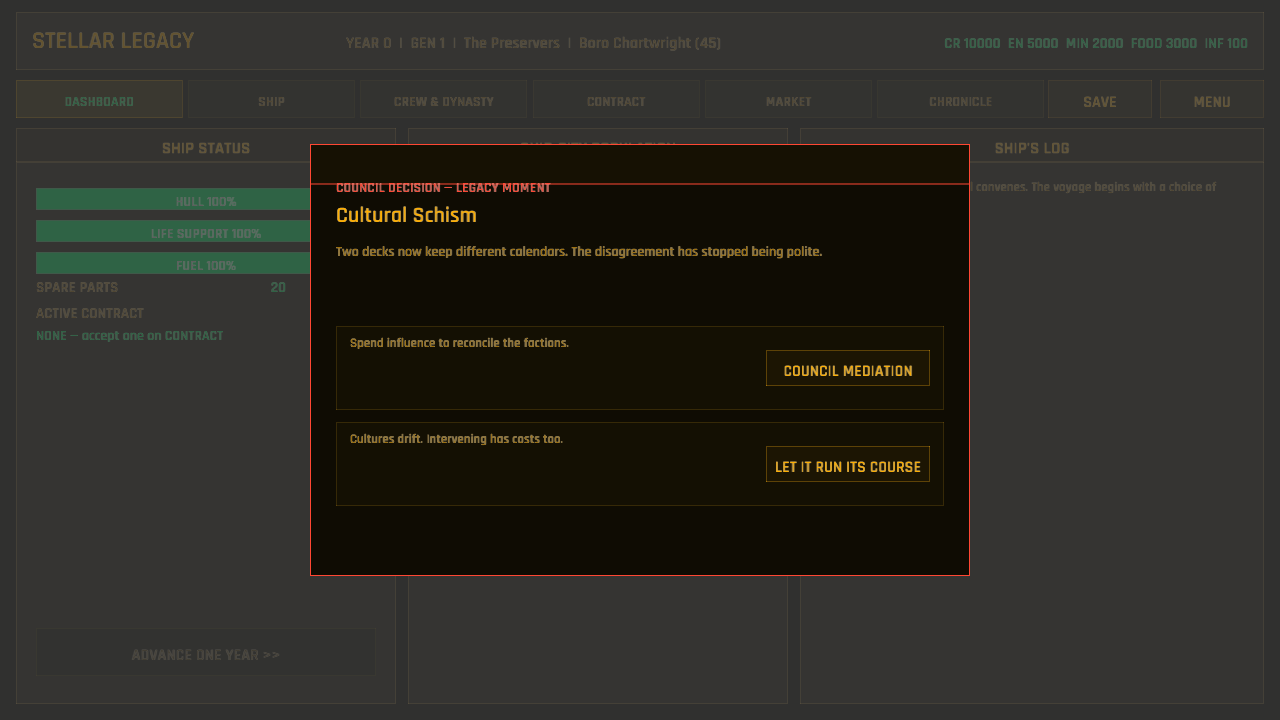
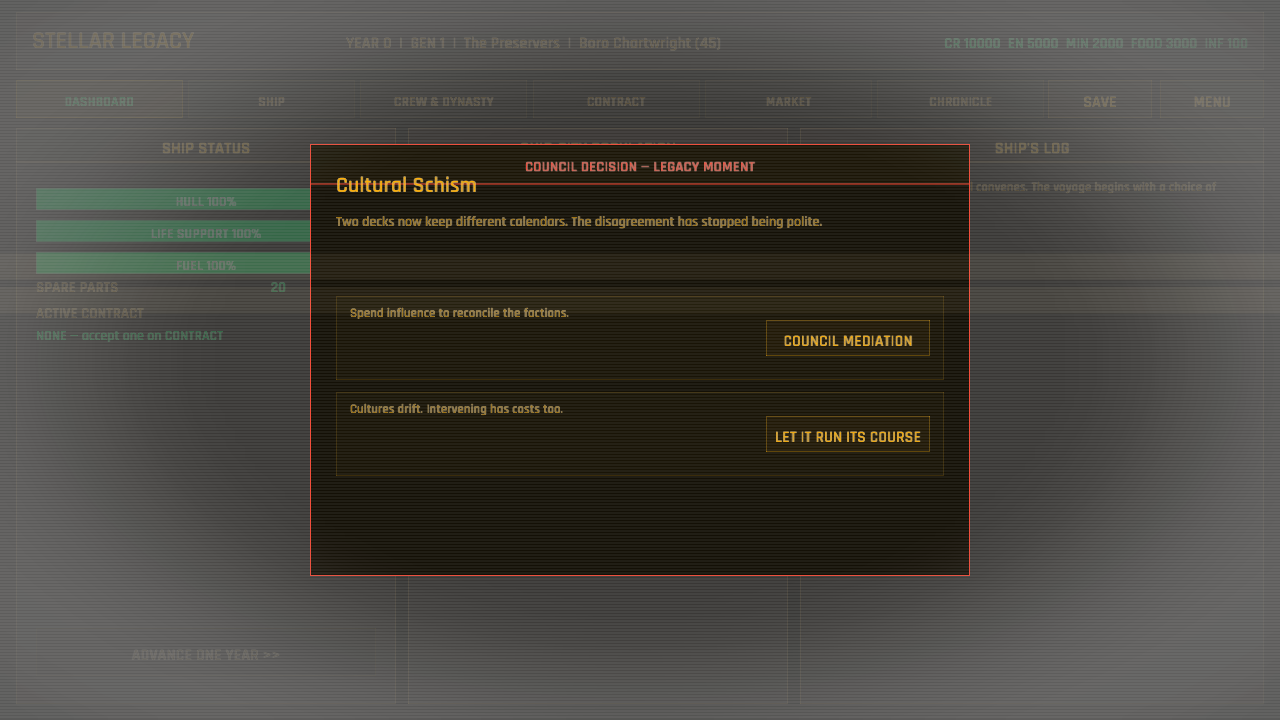
Type out modal text terminal-style; fill modal header band
Stream event/dilemma body text with the toolkit typewriter (55 cps) and
a blinking underscore cursor, driven by a cosmetic reveal clock on Game
(reset per modal, instant in capture so screenshots show final text).
Move the "COUNCIL DECISION / LEGACY DILEMMA" line into the modal's
header band (previously empty) and lead the body with the title.
Updates PLAN item 9 and the header-band nit.

diff --git a/src/ui/event_modal.rs b/src/ui/event_modal.rs
@@ -7,6 +7,9 @@ use macroquad::prelude::*;
 use macroquad_toolkit::prelude::*;
 use macroquad_toolkit::ui::{draw_ui_text_ex, RectExt};
 
+/// Characters-per-second for the terminal reveal of modal body text.
+const REVEAL_CPS: f32 = 55.0;
+
 pub fn draw(ctx: &GameplayCtx<'_>, mouse: Vec2, actions: &mut Vec<UiAction>) {
     let Some(pending) = &ctx.sim.pending_event else {
         return;
@@ -15,18 +18,12 @@ pub fn draw(ctx: &GameplayCtx<'_>, mouse: Vec2, actions: &mut Vec<UiAction>) {
         return;
     };
 
-    let content = modal_frame(template.outcomes.len(), term::RED);
-    let mut y = content.y + 22.0;
-    draw_ui_text_ex(
-        &format!(
-            "COUNCIL DECISION — {}",
-            template.category.label().to_uppercase()
-        ),
-        content.x,
-        y,
-        TextStyle::new(14.0, term::RED).params(),
+    let header = format!(
+        "COUNCIL DECISION — {}",
+        template.category.label().to_uppercase()
     );
-    y += 30.0;
+    let content = modal_frame(&header, template.outcomes.len(), term::RED);
+    let mut y = content.y + 22.0;
     draw_ui_text_ex(
         &template.title,
         content.x,
@@ -34,15 +31,12 @@ pub fn draw(ctx: &GameplayCtx<'_>, mouse: Vec2, actions: &mut Vec<UiAction>) {
         TextStyle::new(22.0, term::AMBER).params(),
     );
     y += 20.0;
-    draw_text_block(
+    draw_typed_block(
         &template.description,
         content.x,
         y,
         content.w,
-        70.0,
-        14.0,
-        4.0,
-        term::AMBER_DIM,
+        ctx.modal_reveal,
     );
     y += 84.0;
 
@@ -88,15 +82,9 @@ pub fn draw_dilemma(ctx: &GameplayCtx<'_>, mouse: Vec2, actions: &mut Vec<UiActi
         .map(|l| l.name.clone())
         .unwrap_or_default();
 
-    let content = modal_frame(dilemma.options.len(), term::AMBER);
+    let header = format!("LEGACY DILEMMA — {}", legacy_name.to_uppercase());
+    let content = modal_frame(&header, dilemma.options.len(), term::AMBER);
     let mut y = content.y + 22.0;
-    draw_ui_text_ex(
-        &format!("LEGACY DILEMMA — {}", legacy_name.to_uppercase()),
-        content.x,
-        y,
-        TextStyle::new(14.0, term::AMBER).params(),
-    );
-    y += 30.0;
     draw_ui_text_ex(
         &dilemma.title,
         content.x,
@@ -104,15 +92,12 @@ pub fn draw_dilemma(ctx: &GameplayCtx<'_>, mouse: Vec2, actions: &mut Vec<UiActi
         TextStyle::new(22.0, term::AMBER).params(),
     );
     y += 20.0;
-    draw_text_block(
+    draw_typed_block(
         &dilemma.description,
         content.x,
         y,
         content.w,
-        70.0,
-        14.0,
-        4.0,
-        term::AMBER_DIM,
+        ctx.modal_reveal,
     );
     y += 84.0;
 
@@ -151,8 +136,9 @@ pub fn draw_dilemma(ctx: &GameplayCtx<'_>, mouse: Vec2, actions: &mut Vec<UiActi
     }
 }
 
-/// Dim the world and draw the modal surface; returns the content rect.
-fn modal_frame(option_count: usize, accent: Color) -> Rect {
+/// Dim the world and draw the modal surface with `header` in the title band;
+/// returns the content rect.
+fn modal_frame(header: &str, option_count: usize, accent: Color) -> Rect {
     draw_rectangle(
         0.0,
         0.0,
@@ -175,5 +161,34 @@ fn modal_frame(option_count: usize, accent: Color) -> Rect {
             .with_header(40.0, term::PANEL_HEADER)
             .with_header_divider(1.0, accent),
     );
+    draw_text_centered_in_box_ex(
+        header,
+        rect.x,
+        rect.y,
+        rect.w,
+        40.0,
+        TextStyle::new(15.0, accent),
+    );
     rect.inset(26.0)
+}
+
+/// Word-wrapped body text revealed left-to-right terminal style, with a
+/// blinking underscore cursor while it is still typing.
+fn draw_typed_block(text: &str, x: f32, y: f32, w: f32, reveal: f32) {
+    let shown = typed_prefix(text, reveal, REVEAL_CPS);
+    let cursor = if !is_fully_typed(text, reveal, REVEAL_CPS) && (reveal * 2.5).fract() < 0.5 {
+        "_"
+    } else {
+        ""
+    };
+    draw_text_block(
+        &format!("{shown}{cursor}"),
+        x,
+        y,
+        w,
+        70.0,
+        14.0,
+        4.0,
+        term::AMBER_DIM,
+    );
 }

diff --git a/src/game.rs b/src/game.rs
@@ -34,6 +34,13 @@ pub struct Game {
     crt: CrtOverlay,
     crt_style: CrtStyle,
     crt_enabled: bool,
+    /// Terminal typewriter reveal for blocking modals: which modal is showing
+    /// and when it appeared, so its body text streams in. Purely cosmetic —
+    /// never touches the deterministic sim.
+    modal_key: Option<String>,
+    modal_started: f64,
+    /// Reveal text instantly (screenshot capture) instead of typing it out.
+    instant_reveal: bool,
 }
 
 impl Game {
@@ -63,11 +70,16 @@ impl Game {
             crt: CrtOverlay::new(),
             crt_style: CrtStyle::amber(),
             crt_enabled: true,
+            modal_key: None,
+            modal_started: 0.0,
+            instant_reveal: false,
         }
     }
 
     /// Seed a deterministic state for the headless screenshot harness.
     pub fn begin_capture_scene(&mut self, scene: &str) {
+        // Screenshots want the final composed frame, not a mid-type one.
+        self.instant_reveal = true;
         match scene {
             "menu" => self.state = GameState::Menu(MenuState::new(false)),
             "event" => {
@@ -125,6 +137,8 @@ impl Game {
     pub fn draw(&mut self) {
         clear_background(ui::term::BG);
 
+        let modal_reveal = self.modal_reveal();
+
         let virtual_ui = begin_virtual_ui_frame(ui::LOGICAL_WIDTH, ui::LOGICAL_HEIGHT);
         let actions = match &self.state {
             GameState::Menu(menu) => ui::draw_menu(ui::MenuCtx {
@@ -139,6 +153,7 @@ impl Game {
                 screen: gameplay.screen,
                 chronicle: &self.chronicle,
                 ui: &virtual_ui,
+                modal_reveal,
             }),
         };
         end_virtual_ui_frame();
@@ -157,6 +172,33 @@ impl Game {
         if self.crt_enabled {
             self.crt.draw(get_time() as f32, &self.crt_style);
         }
+    }
+
+    /// Seconds since the current blocking modal appeared, resetting the clock
+    /// whenever a different modal takes over. Returns a large value (instant
+    /// reveal) in capture mode; the value is unused when no modal is showing.
+    fn modal_reveal(&mut self) -> f32 {
+        if self.instant_reveal {
+            return f32::MAX;
+        }
+        let key = match &self.state {
+            GameState::Gameplay(g) => {
+                if let Some(p) = &g.sim.pending_event {
+                    Some(format!("E:{}", p.template_id))
+                } else {
+                    g.sim
+                        .pending_dilemma
+                        .as_ref()
+                        .map(|p| format!("D:{}", p.dilemma_id))
+                }
+            }
+            _ => None,
+        };
+        if key != self.modal_key {
+            self.modal_key = key;
+            self.modal_started = get_time();
+        }
+        (get_time() - self.modal_started) as f32
     }
 
     fn transition(&mut self, transition: StateTransition) {

diff --git a/src/ui.rs b/src/ui.rs
@@ -262,6 +262,9 @@ pub struct GameplayCtx<'a> {
     pub screen: Screen,
     pub chronicle: &'a ChronicleStore,
     pub ui: &'a VirtualUi,
+    /// Seconds since the current blocking modal appeared, for the terminal
+    /// typewriter reveal. Large/instant when the effect is disabled.
+    pub modal_reveal: f32,
 }
 
 pub fn draw_gameplay(ctx: GameplayCtx<'_>) -> Vec<UiAction> {

diff --git a/PLAN.md b/PLAN.md
@@ -86,9 +86,14 @@ Ordered roughly by milestone (GDD §13):
    `macroquad_toolkit::fx::CrtOverlay`/`CrtStyle` (new toolkit module
    `fx/crt.rs`): scanlines + corner vignette + slow rolling refresh band +
    subtle flicker, drawn screen-space at the end of `Game::draw`, amber preset,
-   F10 toggle. Still to do: typewriter text reveal, settings screen
-   (toolkit `settings`) for delegation defaults + CRT toggle,
-   `catalog_thumbnail.png` from the menu capture, ko-fi/index.html screenshots.
+   F10 toggle. ~~typewriter text reveal~~ **DONE (2026-07-18)** — toolkit
+   `fx/typewriter.rs` (`typed_prefix`/`typed_char_count`/`is_fully_typed`,
+   pure + tested); modal body text streams in at `REVEAL_CPS` with a blinking
+   underscore cursor (`event_modal::draw_typed_block`). A cosmetic reveal clock
+   lives on `Game` (`modal_reveal`, reset per modal, instant in capture). Still
+   to do: settings screen (toolkit `settings`) for delegation defaults + CRT
+   toggle, `catalog_thumbnail.png` from the menu capture, ko-fi/index.html
+   screenshots.
 10. Consider `achievements` for Chronicle milestones (GDD §10 "maybe").
 
 ## Conventions the framework already follows (keep them)
@@ -129,6 +134,8 @@ commit before starting M2 work (every sibling game is its own repo).
 
 - Meter color logic treats <35% as "critical" red — correct for morale/hull, but
   inverted for `cultural_drift`/`adaptation` where low is good/neutral.
-- The event modal header band is empty (title is drawn in the body).
+- ~~The event modal header band is empty~~ **FIXED (2026-07-18)** — the
+  category/legacy line now renders centered in the header band; the title leads
+  the body.
 - Menu lists legacies in sorted-id order (Adaptors first); GDD implies no order,
   but Preservers-first might read better.